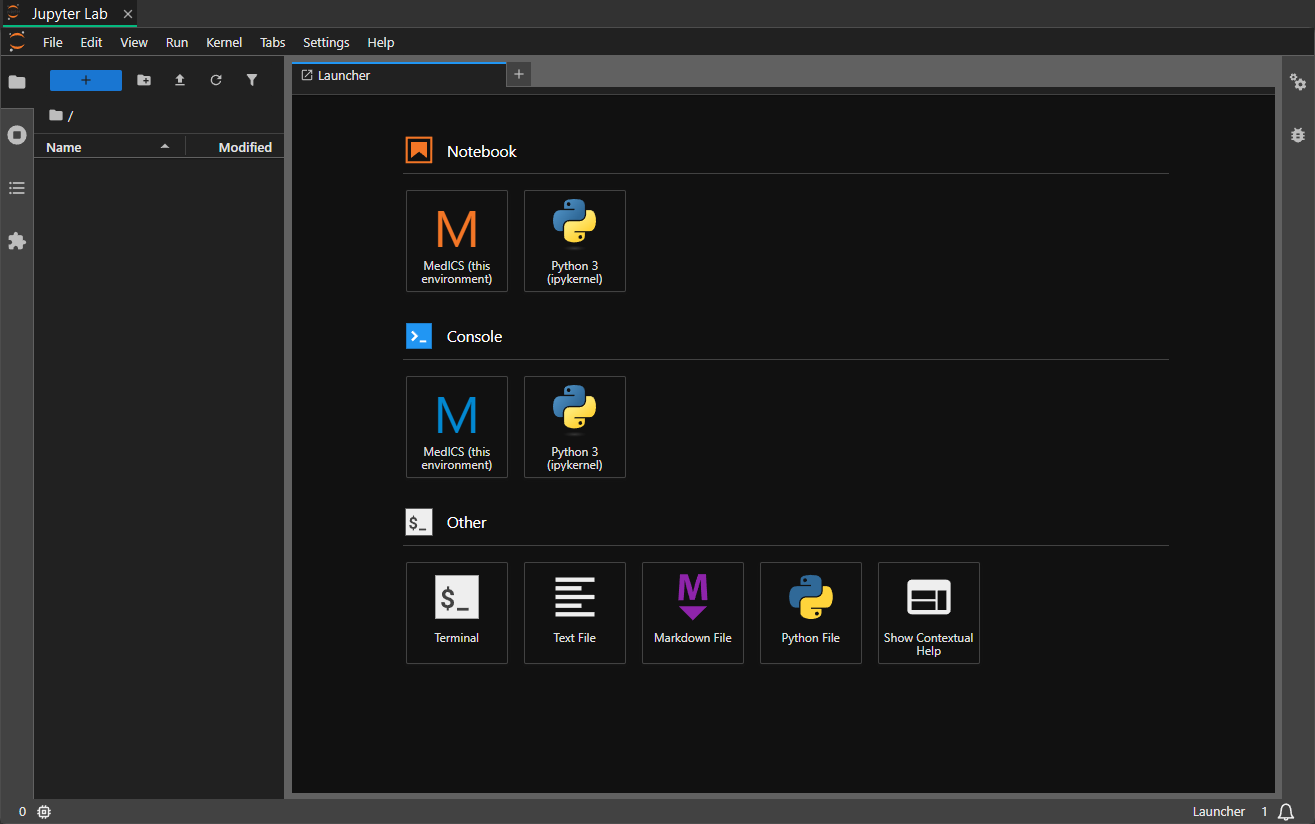
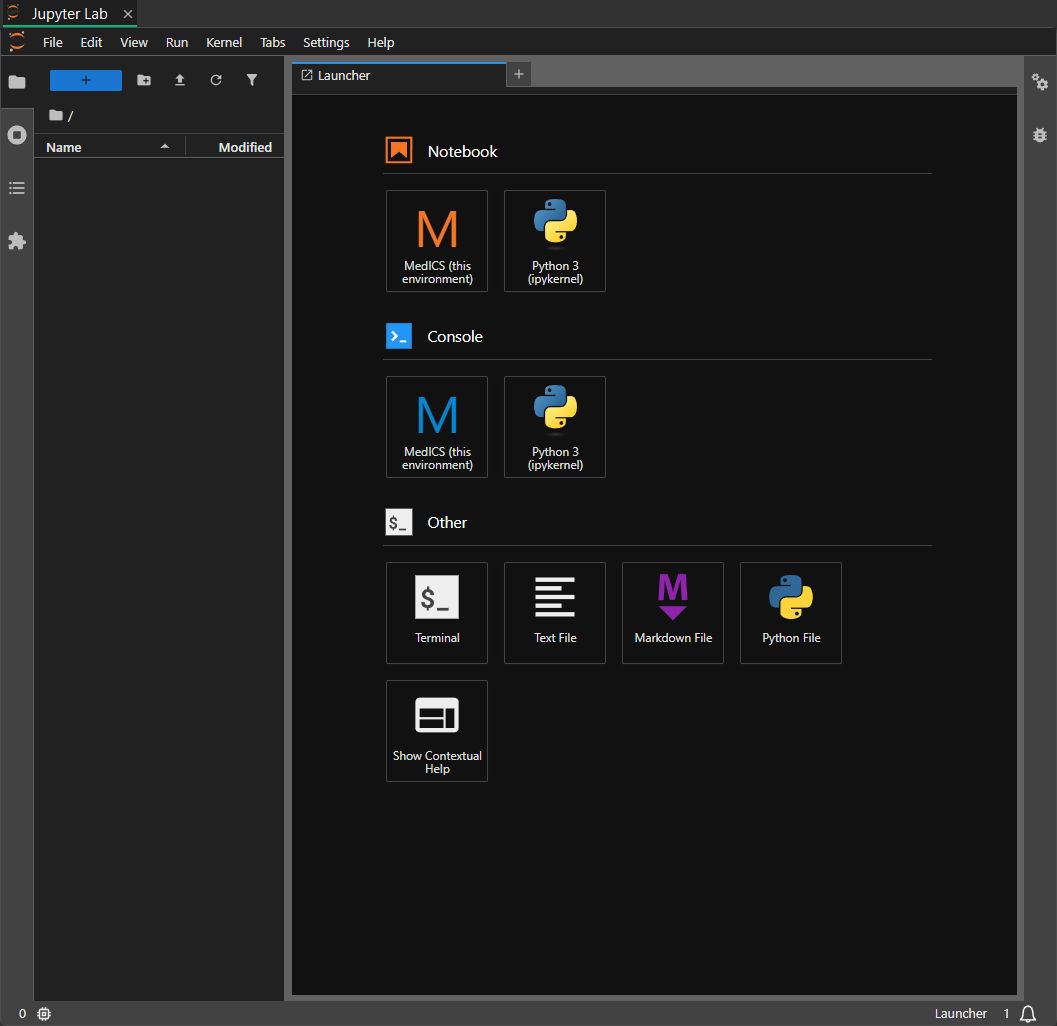
Refactor code structure for improved readability and maintainability

diff --git a/css/docs.css b/css/docs.css
@@ -153,9 +153,14 @@
 .docs-content td { color: var(--muted); }
 .docs-content td:first-child { color: var(--text); }
 .docs-content img { max-width: 100%; border-radius: var(--radius); border: 1px solid var(--border); }
+/* Toolbox screenshots are written straight into a paragraph instead of a
+   figure, so centre them in the column rather than leaving them on the left. */
+.docs-content p > img { display: block; margin-inline: auto; }
 
 /* ---------- screenshots ---------- */
-.doc-screens { display: grid; gap: 1rem; margin: 0 0 2rem; }
+/* `margin: 0 auto` centres the width-constrained variants below; the unbounded
+   ones fill the column, where the auto margins resolve to zero. */
+.doc-screens { display: grid; gap: 1rem; margin: 0 auto 2rem; }
 .doc-screens--grid { grid-template-columns: repeat(auto-fit, minmax(280px, 1fr)); }
 /* Two panel screenshots side by side, kept close to their native size. */
 .doc-screens--pair {
@@ -231,6 +236,9 @@
   font-size: 0.76rem;
   color: var(--muted);
   border-top: 1px solid var(--border);
+  /* The thumbnail is centred inside the tile (object-position: center), so the
+     label is centred too rather than hugging the left edge. */
+  text-align: center;
   white-space: nowrap;
   overflow: hidden;
   text-overflow: ellipsis;

diff --git a/docs/settings.html b/docs/settings.html
@@ -56,7 +56,7 @@
 <h2 id="settings-preferences">Settings &amp; preferences</h2>
 <p>Open preferences from <strong>Edit → Preferences</strong>. Every group lives in one dialog, so you can
 move between appearance, logging, chat and workspace options without leaving it.</p>
-<div class="doc-screens">
+<div class="doc-screens doc-screens--medium">
   <figure class="doc-figure">
     <a href="../assets/img/components/general_settings.png" target="_blank" rel="noopener">
       <img loading="lazy" src="../assets/img/components/general_settings.png" alt="Preferences — the general settings" width="1050" height="1012" />
@@ -104,7 +104,7 @@ move between appearance, logging, chat and workspace options without leaving it.
 installed, turn each one on or off, and reload an extension after an update without restarting
 MedICS. New packages are installed with <code>pip</code> — see
 <a href="../extensions.html">Extensions</a>.</p>
-<div class="doc-screens">
+<div class="doc-screens doc-screens--medium">
   <figure class="doc-figure">
     <a href="../assets/img/components/Extension_manager.png" target="_blank" rel="noopener">
       <img loading="lazy" src="../assets/img/components/Extension_manager.png" alt="The Extensions manager" width="1050" height="1057" />

diff --git a/docs/ai-assistant.html b/docs/ai-assistant.html
@@ -86,7 +86,7 @@ conversation is listed on the left, so you can keep several going and switch bet
 <h3 id="configuration">Configuration</h3>
 <p>Choose the provider and model and enter your API key in <strong>Edit → Preferences → Chat</strong>. The
 assistant is optional — MedICS works fully without it.</p>
-<div class="doc-screens">
+<div class="doc-screens doc-screens--medium">
   <figure class="doc-figure">
     <a href="../assets/img/components/chat_agent_setting.png" target="_blank" rel="noopener">
       <img loading="lazy" src="../assets/img/components/chat_agent_setting.png" alt="Chat settings — provider, model and API key" width="1050" height="1012" />
